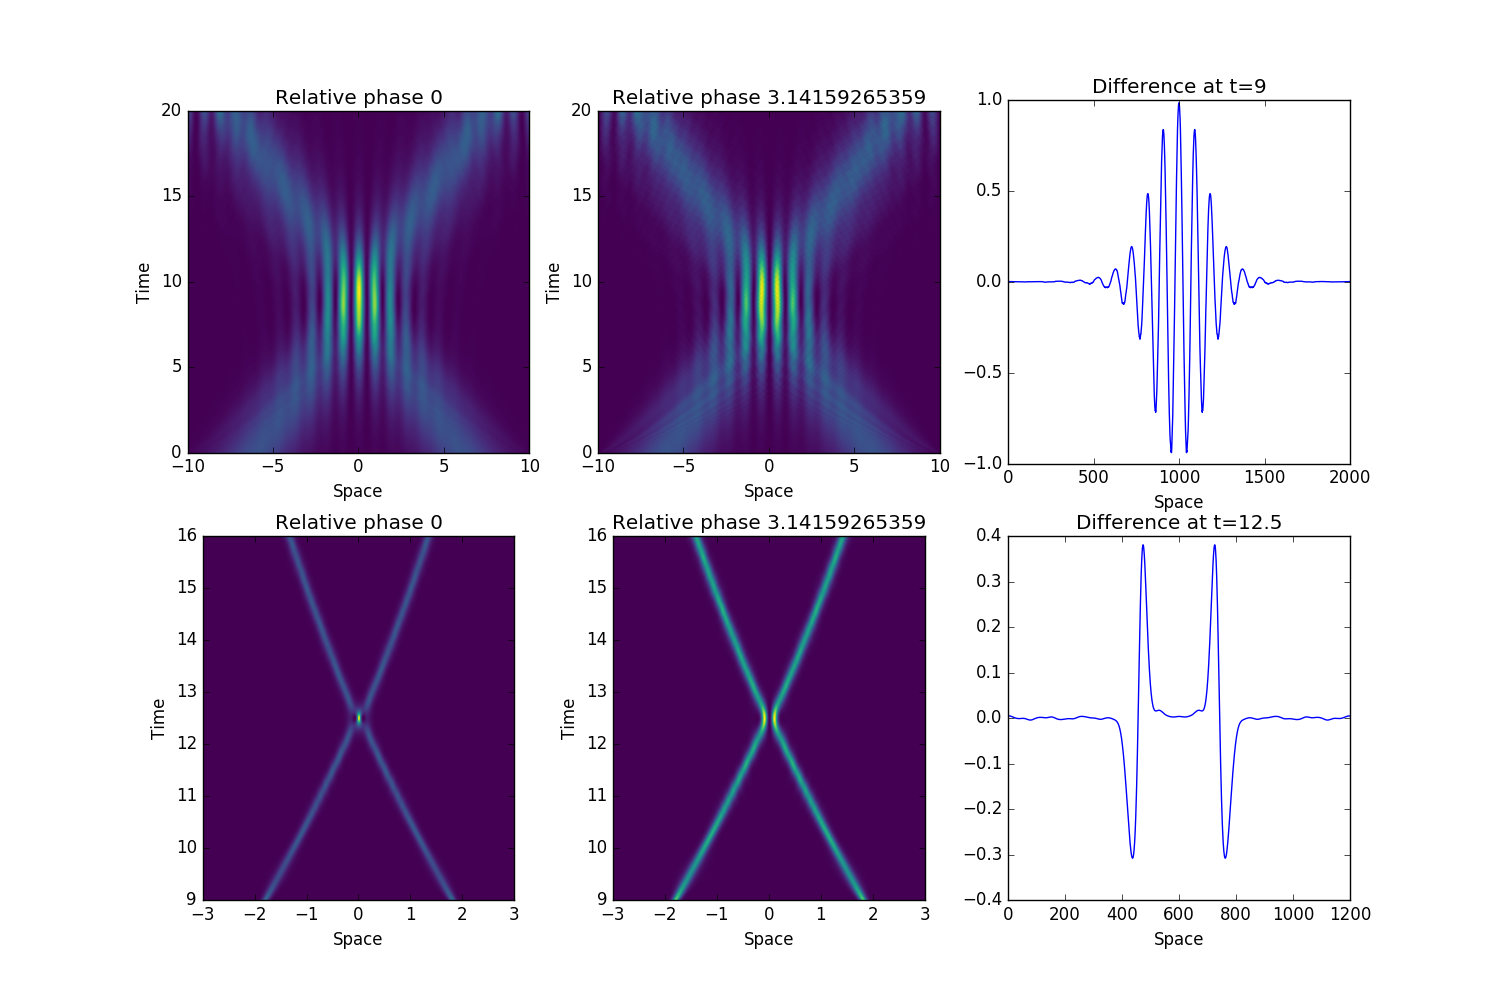
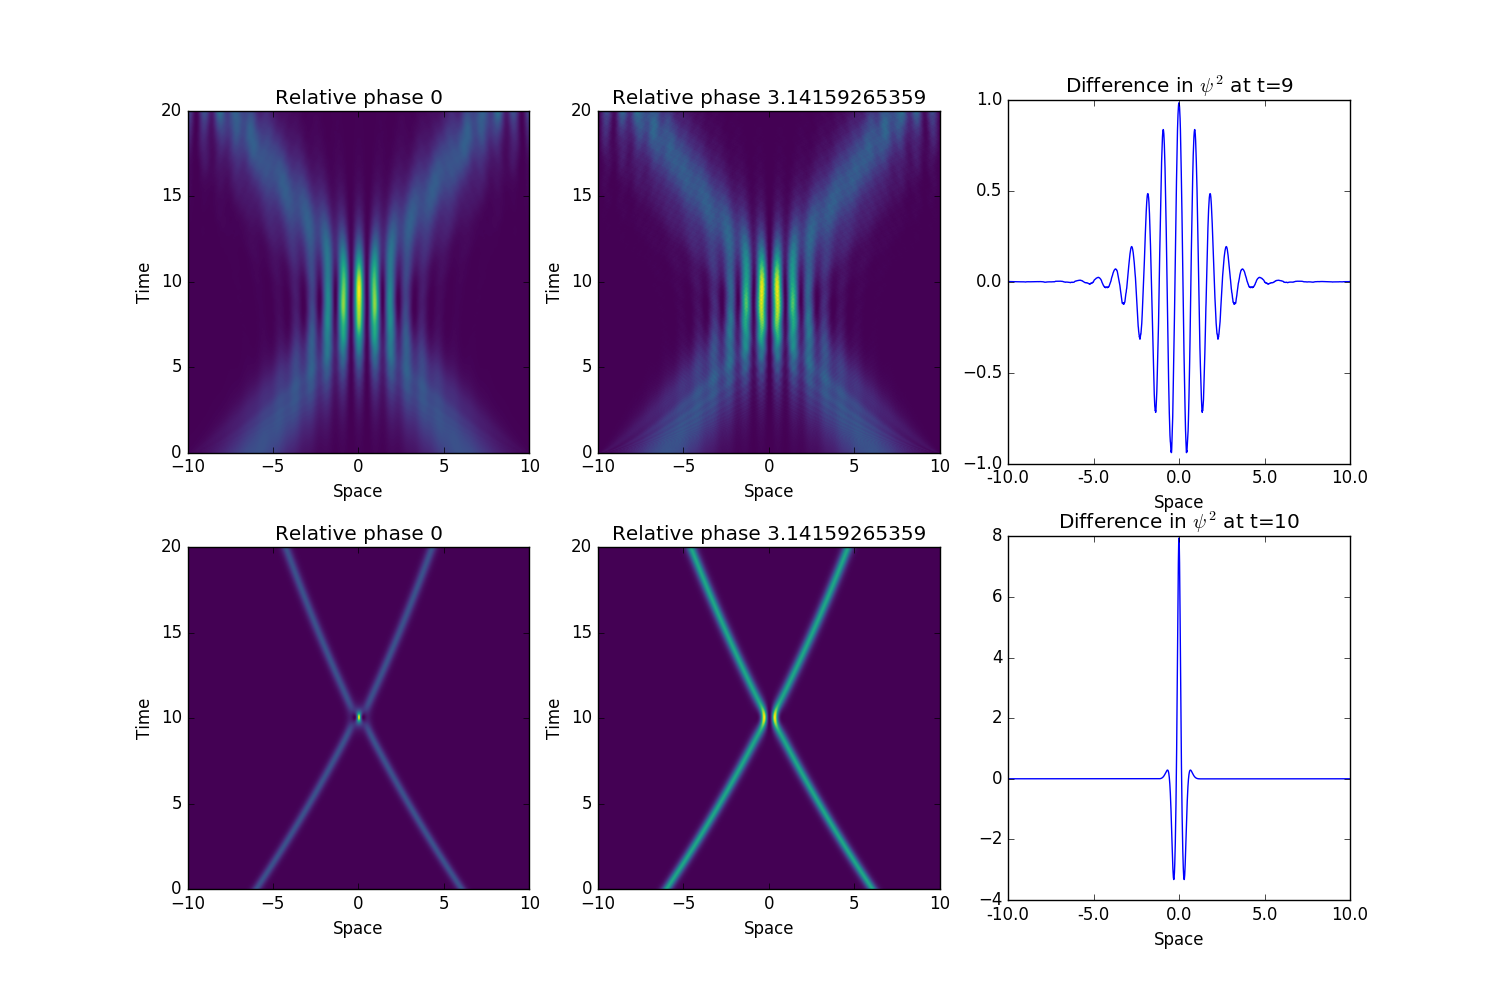
Fixed axes and difference

diff --git a/extension-v3.py b/extension-v3.py
@@ -50,7 +50,7 @@ def schrodinger_time_evolution(psi_initial, V, g):
 
 n_points = 2000 #number of timesteps (also number of x steps)
 dt = 0.001
-ts = np.linspace(0,20,n_points) #only for phase 
+ts = np.linspace(0,2,n_points) #only for phase 
 xs = np.linspace(-10, 10, n_points)
 L = xs[-1] - xs[0] #box length 
 dx = L/n_points
@@ -96,7 +96,6 @@ testpsi4 = schrodinger_time_evolution(two_solitons(-6,6,L/6,-L/6,0,rel_phase2,fa
 difference1 = testpsi - testpsi2
 difference2 = testpsi3 - testpsi4
 
-
 ########## PLOTS ############
 
 pyplot.figure(figsize=(15,10)) 
@@ -121,18 +120,18 @@ pyplot.subplot(233)
 pyplot.plot(difference1[:,900])
 pyplot.xlabel("Space")
 pyplot.xticks(np.array([0,500,1000,1500,2000]),np.array([-10.0,-5.0,0.0,5.0,10.0]))
-pyplot.title("Difference at t=9")
+pyplot.title("Difference in "  + r'$\psi^2$' + " at t=9")
 #pyplot.savefig('difference.png')
 
 pyplot.subplot(234)
-pyplot.imshow(np.transpose(testpsi3), extent=(-3,3,9,16), origin='lower', cmap='viridis') 
-pyplot.xlabel("Space")
+pyplot.imshow(np.transpose(testpsi3), extent=(-10,10,0,20), origin='lower', cmap='viridis') 
+pyplot.xlabel("Space") 
 pyplot.ylabel("Time")
 pyplot.title("Relative phase {}".format(rel_phase1))
 #pyplot.savefig('rel_phase_0.png')
  
 pyplot.subplot(235)
-pyplot.imshow(np.transpose(testpsi4), extent=(-3,3,9,16), origin='lower', cmap='viridis') 
+pyplot.imshow(np.transpose(testpsi4), extent=(-10,10,0,20), origin='lower', cmap='viridis') 
 pyplot.xlabel("Space")
 pyplot.ylabel("Time")
 pyplot.title("Relative phase {}".format(rel_phase2))
@@ -140,11 +139,11 @@ pyplot.title("Relative phase {}".format(rel_phase2))
 
 #one minus the other to show where fringes are 
 pyplot.subplot(236)
-pyplot.plot(difference2[400:1600,1250])
+pyplot.plot(difference2[:,1000])
 pyplot.xlabel("Space")
-pyplot.xticks(np.array([0,200,400,600,800,1000,1200]),np.array([-3,-2,-1,0,1,2,3]))
-pyplot.title("Difference at t=12.5")
+pyplot.xticks(np.array([0,500,1000,1500,2000]),np.array([-10.0,-5.0,0.0,5.0,10.0]))
+pyplot.title("Difference in "  + r'$\psi^2$' + " at t=10")
 #pyplot.savefig('difference.png')
 
-#pyplot.savefig('extensionpic.png')
+pyplot.savefig('extensionpic.png')
 pyplot.show()
